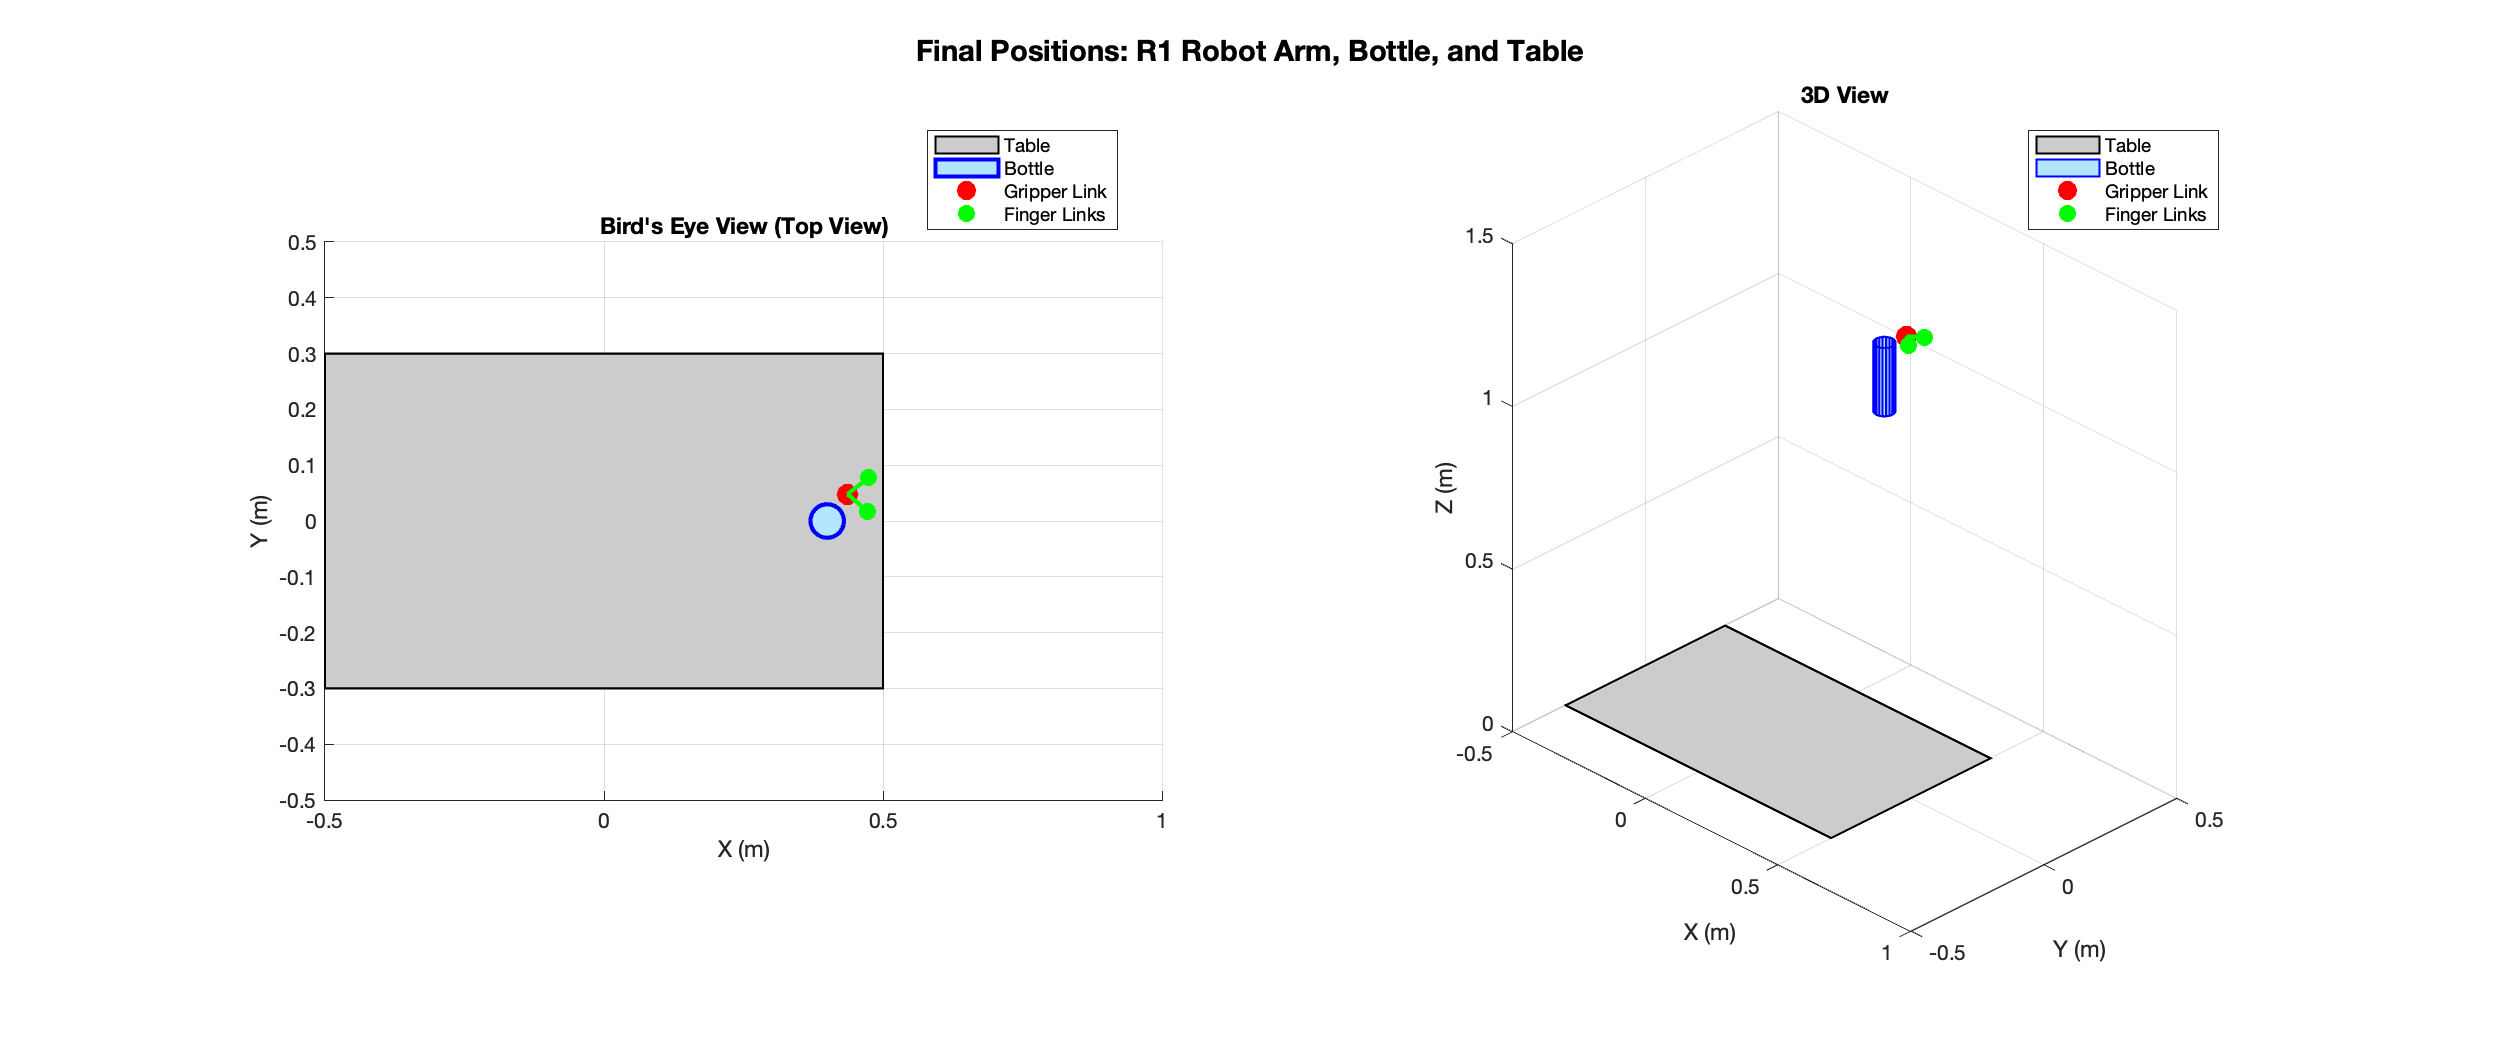
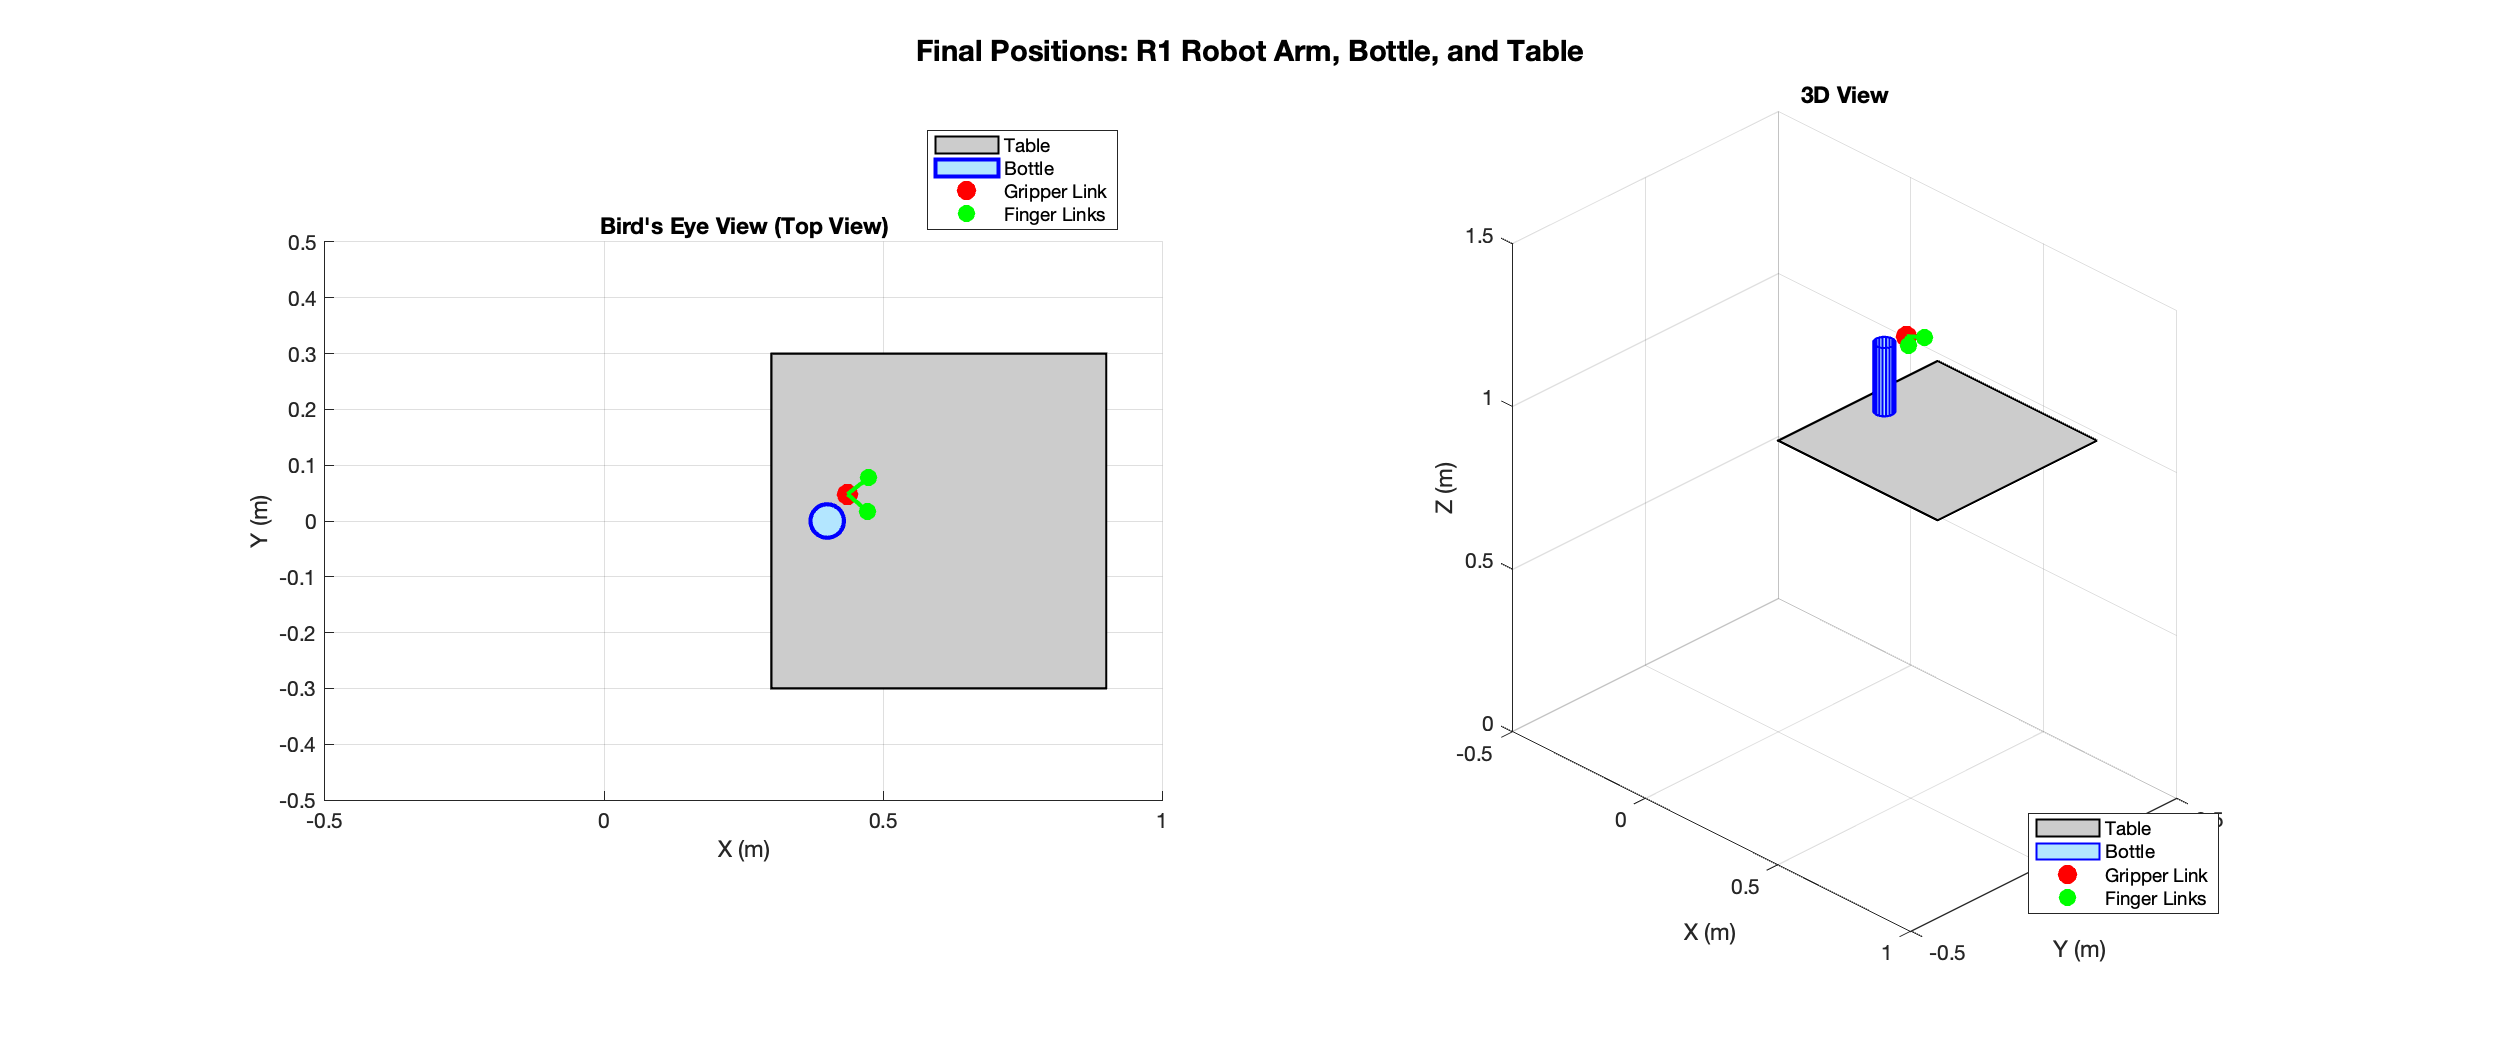
Fix table properties in visualization to use actual table.mat data

diff --git a/plotFinalPositions.m b/plotFinalPositions.m
@@ -10,6 +10,7 @@ if ~exist('final_configuration.mat', 'file')
 end
 
 load('final_configuration.mat');
+load('table.mat'); % Load actual table properties
 robotB = importrobot('fineUrdfs/r1_v2_1_0.urdf');
 
 % Get final positions
@@ -22,9 +23,9 @@ pos_finger1 = tform2trvec(T_finger1);
 pos_finger2 = tform2trvec(T_finger2);
 pos_bottle = tform2trvec(bottleInB.pose);
 
-% Get table position (assuming it's at origin with some dimensions)
-table_pos = [0, 0, 0]; % Table is typically at ground level
-table_size = [1.0, 0.6, 0.02]; % Approximate table dimensions
+% Get table position and dimensions from actual table.mat
+table_pos = tform2trvec(tableBox.Pose); % Extract position from pose matrix
+table_size = [tableBox.X, tableBox.Y, tableBox.Z]; % Use actual dimensions
 
 % Create figure with subplots
 figure('Position', [100, 100, 1200, 500]);
@@ -125,6 +126,8 @@ fprintf('Plot saved as final_positions_plot.png\n');
 
 % Print position information
 fprintf('\n=== Final Position Summary ===\n');
+fprintf('Table Center:      (%.3f, %.3f, %.3f) m\n', table_pos(1), table_pos(2), table_pos(3));
+fprintf('Table Dimensions:  %.3f x %.3f x %.3f m\n', table_size(1), table_size(2), table_size(3));
 fprintf('Bottle Center:     (%.3f, %.3f, %.3f) m\n', pos_bottle(1), pos_bottle(2), pos_bottle(3));
 fprintf('Gripper Link:      (%.3f, %.3f, %.3f) m\n', pos_gripper(1), pos_gripper(2), pos_gripper(3));
 fprintf('Finger 1:          (%.3f, %.3f, %.3f) m\n', pos_finger1(1), pos_finger1(2), pos_finger1(3));
